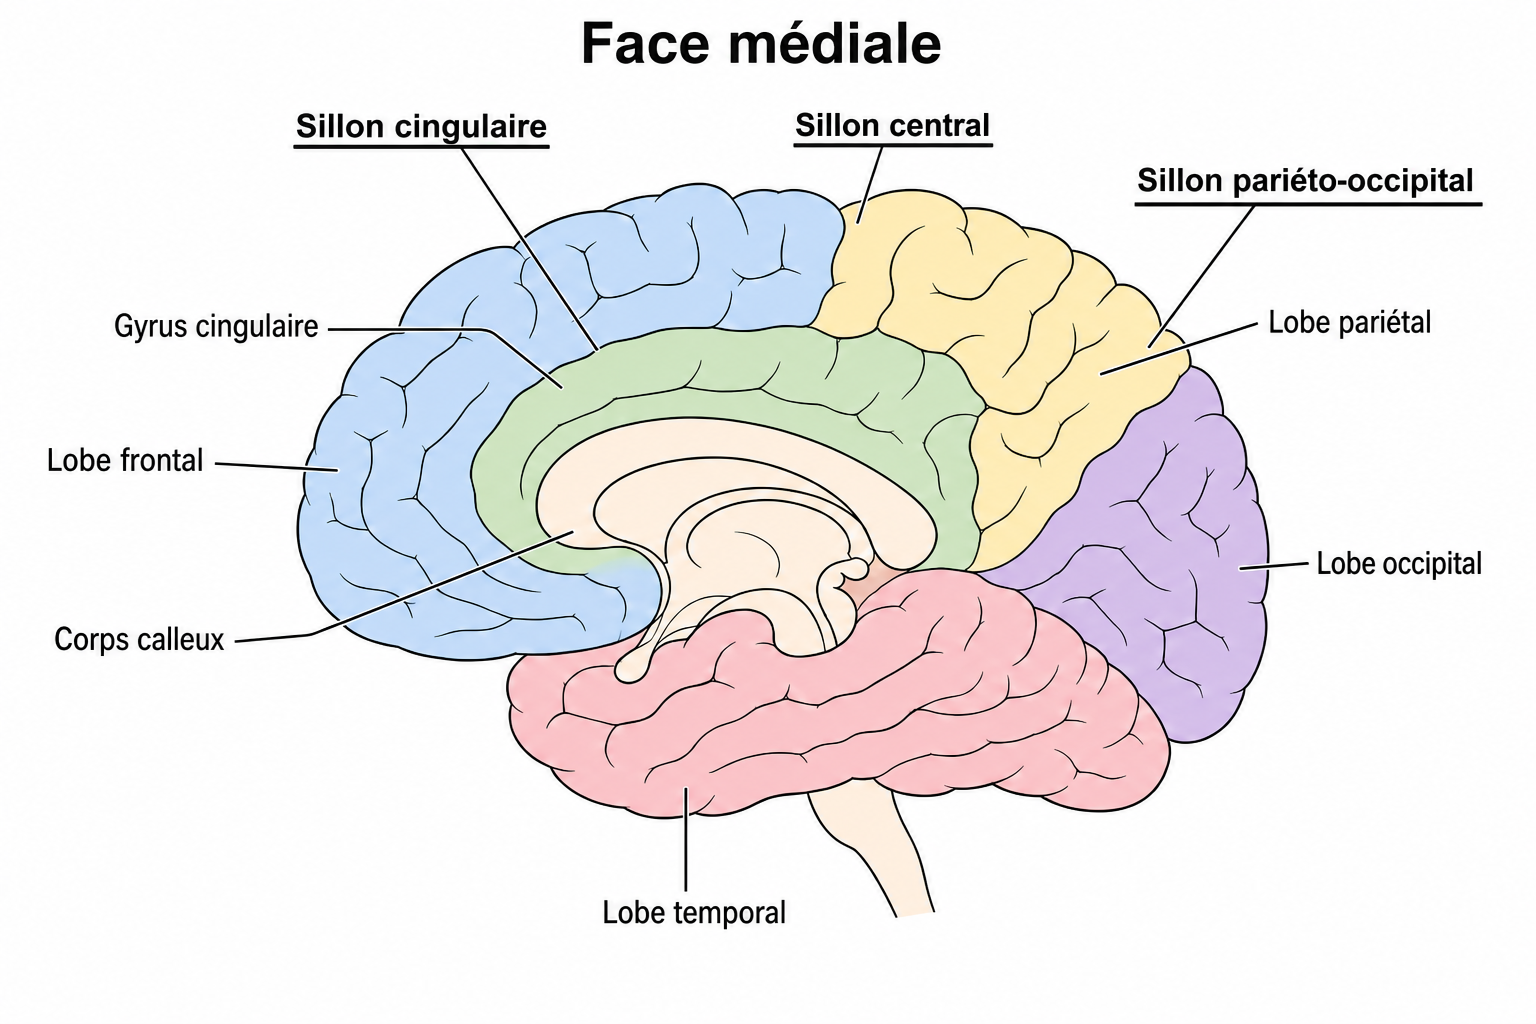
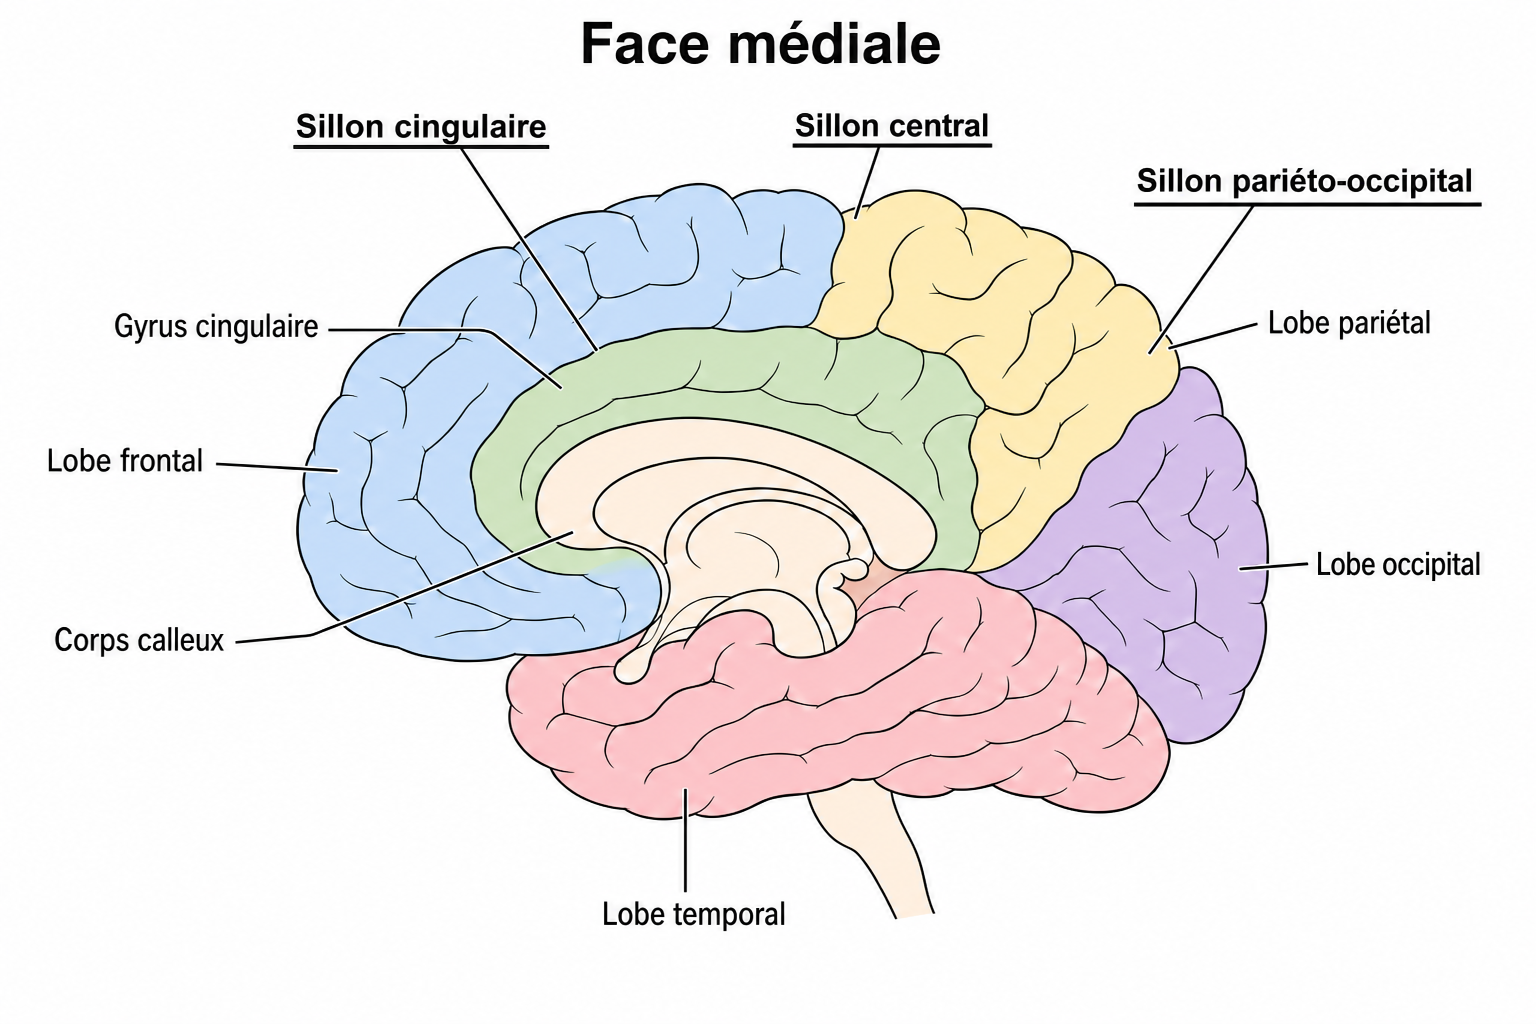
Fix central and parieto-occipital sulcus arrows on ch02 medial face.

diff --git a/data/flash/ch02.js b/data/flash/ch02.js
@@ -95,7 +95,7 @@
     { id: "FC-ANAT-02-S14", chapter: "02", priority: "P1", kind: "schema", front: "Schéma — Expansions de dure-mère", back: "Expansions de dure-mère", frontImg: "matiere/anatomie/img/ch02/blank/15_expansions_dure_mere.png", backImg: "matiere/anatomie/img/ch02/15_expansions_dure_mere.png" },
     { id: "FC-ANAT-02-S15", chapter: "02", priority: "P1", kind: "schema", front: "Schéma — Commissures", back: "Commissures", frontImg: "matiere/anatomie/img/ch02/blank/17_commissures.png", backImg: "matiere/anatomie/img/ch02/17_commissures.png" },
     { id: "FC-ANAT-02-S16", chapter: "02", priority: "P1", kind: "schema", front: "Schéma — Face latérale", back: "Face latérale", frontImg: "matiere/anatomie/img/ch02/blank/21_face_laterale.png", backImg: "matiere/anatomie/img/ch02/21_face_laterale.png" },
-    { id: "FC-ANAT-02-S17", chapter: "02", priority: "P1", kind: "schema", front: "Schéma — Face médiale", back: "Face médiale", frontImg: "matiere/anatomie/img/ch02/blank/22_face_mediale.png?v=fc2", backImg: "matiere/anatomie/img/ch02/22_face_mediale.png?v=fc2" },
+    { id: "FC-ANAT-02-S17", chapter: "02", priority: "P1", kind: "schema", front: "Schéma — Face médiale", back: "Face médiale", frontImg: "matiere/anatomie/img/ch02/blank/22_face_mediale.png?v=fc2c", backImg: "matiere/anatomie/img/ch02/22_face_mediale.png?v=fc2c" },
     { id: "FC-ANAT-02-S18", chapter: "02", priority: "P1", kind: "schema", front: "Schéma — Face inférieure", back: "Face inférieure", frontImg: "matiere/anatomie/img/ch02/blank/23_face_inferieure.png", backImg: "matiere/anatomie/img/ch02/23_face_inferieure.png" },
     { id: "FC-ANAT-02-S19", chapter: "02", priority: "P1", kind: "schema", front: "Schéma — Gyrus frontaux", back: "Gyrus frontaux", frontImg: "matiere/anatomie/img/ch02/blank/26_frontal_gyrus.png", backImg: "matiere/anatomie/img/ch02/26_frontal_gyrus.png" },
     { id: "FC-ANAT-02-S20", chapter: "02", priority: "P1", kind: "schema", front: "Schéma — Régions pariétales", back: "Régions pariétales", frontImg: "matiere/anatomie/img/ch02/blank/28_parietal_regions.png?v=fc2", backImg: "matiere/anatomie/img/ch02/28_parietal_regions.png?v=fc2" },

diff --git a/matiere/anatomie/ch02.html b/matiere/anatomie/ch02.html
@@ -360,7 +360,7 @@
         <img src="./img/ch02/21_face_laterale.png" alt="Face latérale" />
       </figure>
       <figure class="schema">
-        <img src="./img/ch02/22_face_mediale.png?v=fc2" alt="Face médiale" />
+        <img src="./img/ch02/22_face_mediale.png?v=fc2c" alt="Face médiale" />
       </figure>
       <figure class="schema">
         <img src="./img/ch02/23_face_inferieure.png" alt="Face inférieure" />
